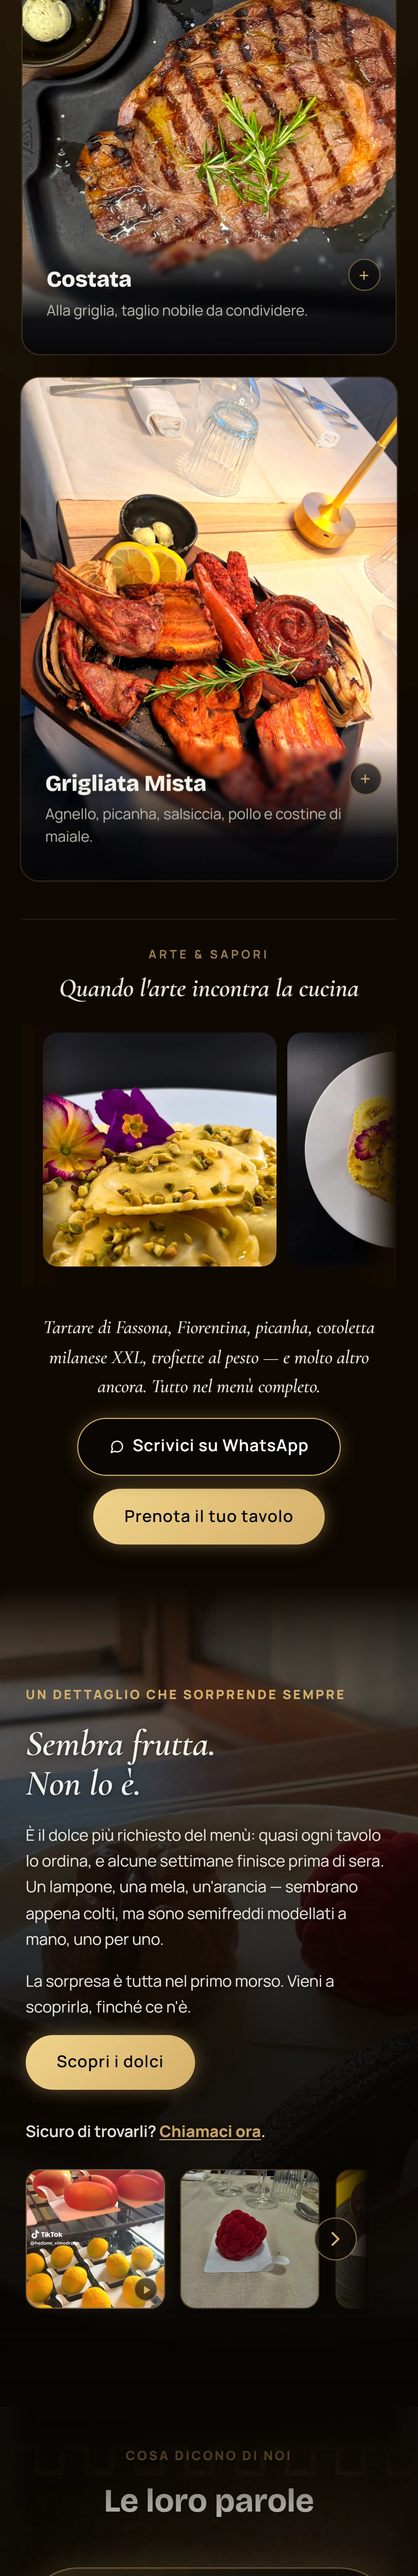
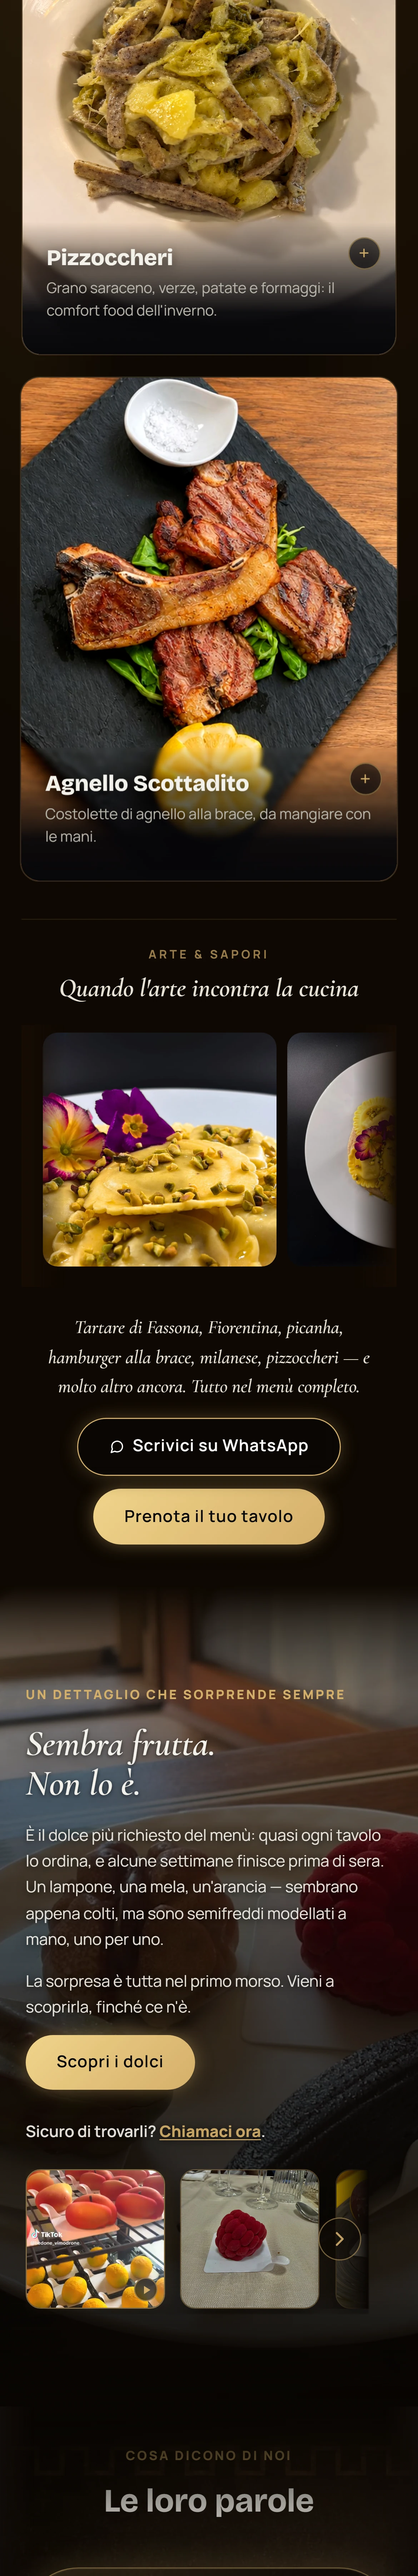
feat[LAVORI]: bollino «Cliente · online» su Hedone, MARO e Home Unity; catture nuove del sito di Hedone

diff --git a/home-corona/hq-meta.js b/home-corona/hq-meta.js
@@ -1,1 +1,1 @@
-window.HQ_META = {"hedone":{"pc":{"cssW":1440,"cssH":7867,"dpr":2,"blocchi":[{"file":"hedone-pc-intera-1.webp","w":2880,"h":6000,"kb":1007},{"file":"hedone-pc-intera-2.webp","w":2880,"h":6000,"kb":889},{"file":"hedone-pc-intera-3.webp","w":2880,"h":3734,"kb":347}]},"tel":{"cssW":390,"cssH":11717,"dpr":3,"blocchi":[{"file":"hedone-tel-intera-1.webp","w":1170,"h":7200,"kb":567},{"file":"hedone-tel-intera-2.webp","w":1170,"h":7200,"kb":736},{"file":"hedone-tel-intera-3.webp","w":1170,"h":7200,"kb":711},{"file":"hedone-tel-intera-4.webp","w":1170,"h":7200,"kb":349},{"file":"hedone-tel-intera-5.webp","w":1170,"h":6351,"kb":178}]}},"ossidiana":{"pc":{"cssW":1440,"cssH":6148,"dpr":2,"blocchi":[{"file":"ossidiana-pc-intera-1.webp","w":2880,"h":6000,"kb":861},{"file":"ossidiana-pc-intera-2.webp","w":2880,"h":6000,"kb":671},{"file":"ossidiana-pc-intera-3.webp","w":2880,"h":296,"kb":16}]},"tel":{"cssW":390,"cssH":5863,"dpr":3,"blocchi":[{"file":"ossidiana-tel-intera-1.webp","w":1170,"h":7200,"kb":487},{"file":"ossidiana-tel-intera-2.webp","w":1170,"h":7200,"kb":466},{"file":"ossidiana-tel-intera-3.webp","w":1170,"h":3189,"kb":109}]}},"lumea":{"pc":{"cssW":1440,"cssH":9267,"dpr":2,"blocchi":[{"file":"lumea-pc-intera-1.webp","w":2880,"h":6000,"kb":814},{"file":"lumea-pc-intera-2.webp","w":2880,"h":6000,"kb":588},{"file":"lumea-pc-intera-3.webp","w":2880,"h":6000,"kb":453},{"file":"lumea-pc-intera-4.webp","w":2880,"h":534,"kb":64}]},"tel":{"cssW":390,"cssH":16372,"dpr":3,"blocchi":[{"file":"lumea-tel-intera-1.webp","w":1170,"h":7200,"kb":376},{"file":"lumea-tel-intera-2.webp","w":1170,"h":7200,"kb":517},{"file":"lumea-tel-intera-3.webp","w":1170,"h":7200,"kb":367},{"file":"lumea-tel-intera-4.webp","w":1170,"h":7200,"kb":249},{"file":"lumea-tel-intera-5.webp","w":1170,"h":7200,"kb":299},{"file":"lumea-tel-intera-6.webp","w":1170,"h":7200,"kb":278},{"file":"lumea-tel-intera-7.webp","w":1170,"h":5916,"kb":206}]}},"michelangelo":{"pc":{"cssW":1440,"cssH":6072,"dpr":2,"blocchi":[{"file":"michelangelo-pc-intera-1.webp","w":2880,"h":6000,"kb":855},{"file":"michelangelo-pc-intera-2.webp","w":2880,"h":6000,"kb":625},{"file":"michelangelo-pc-intera-3.webp","w":2880,"h":144,"kb":25}]},"tel":{"cssW":390,"cssH":7423,"dpr":3,"blocchi":[{"file":"michelangelo-tel-intera-1.webp","w":1170,"h":7200,"kb":514},{"file":"michelangelo-tel-intera-2.webp","w":1170,"h":7200,"kb":499},{"file":"michelangelo-tel-intera-3.webp","w":1170,"h":7200,"kb":299},{"file":"michelangelo-tel-intera-4.webp","w":1170,"h":669,"kb":66}]}},"centorespiri":{"pc":{"cssW":1440,"cssH":5791,"dpr":2,"blocchi":[{"file":"centorespiri-pc-intera-1.webp","w":2880,"h":6000,"kb":706},{"file":"centorespiri-pc-intera-2.webp","w":2880,"h":5582,"kb":386}]},"tel":{"cssW":390,"cssH":8140,"dpr":3,"blocchi":[{"file":"centorespiri-tel-intera-1.webp","w":1170,"h":7200,"kb":432},{"file":"centorespiri-tel-intera-2.webp","w":1170,"h":7200,"kb":298},{"file":"centorespiri-tel-intera-3.webp","w":1170,"h":7200,"kb":256},{"file":"centorespiri-tel-intera-4.webp","w":1170,"h":2820,"kb":127}]}},"carico":{"pc":{"cssW":1440,"cssH":6825,"dpr":2,"blocchi":[{"file":"carico-pc-intera-1.webp","w":2880,"h":6000,"kb":544},{"file":"carico-pc-intera-2.webp","w":2880,"h":6000,"kb":507},{"file":"carico-pc-intera-3.webp","w":2880,"h":1650,"kb":84}]},"tel":{"cssW":390,"cssH":8607,"dpr":3,"blocchi":[{"file":"carico-tel-intera-1.webp","w":1170,"h":7200,"kb":344},{"file":"carico-tel-intera-2.webp","w":1170,"h":7200,"kb":284},{"file":"carico-tel-intera-3.webp","w":1170,"h":7200,"kb":355},{"file":"carico-tel-intera-4.webp","w":1170,"h":4221,"kb":196}]}},"homeunity-sito":{"pc":{"cssW":1440,"cssH":5807,"dpr":2,"blocchi":[{"file":"homeunity-sito-pc-intera-1.webp","w":2880,"h":6000,"kb":1330},{"file":"homeunity-sito-pc-intera-2.webp","w":2880,"h":5614,"kb":955}]},"tel":{"cssW":390,"cssH":8685,"dpr":3,"blocchi":[{"file":"homeunity-sito-tel-intera-1.webp","w":1170,"h":7200,"kb":493},{"file":"homeunity-sito-tel-intera-2.webp","w":1170,"h":7200,"kb":751},{"file":"homeunity-sito-tel-intera-3.webp","w":1170,"h":7200,"kb":551},{"file":"homeunity-sito-tel-intera-4.webp","w":1170,"h":4455,"kb":236}]}},"maro":{"pc":{"cssW":1440,"cssH":3998,"dpr":2,"blocchi":[{"file":"maro-pc-intera-1.webp","w":2880,"h":6000,"kb":802},{"file":"maro-pc-intera-2.webp","w":2880,"h":1996,"kb":316}]},"tel":{"cssW":390,"cssH":3829,"dpr":3,"blocchi":[{"file":"maro-tel-intera-1.webp","w":1170,"h":7200,"kb":655},{"file":"maro-tel-intera-2.webp","w":1170,"h":4287,"kb":259}]}}};
+window.HQ_META = {"hedone":{"pc":{"cssW":1440,"cssH":7769,"dpr":2,"blocchi":[{"file":"hedone-pc-intera-1.webp","w":2880,"h":6000,"kb":1034},{"file":"hedone-pc-intera-2.webp","w":2880,"h":6000,"kb":838},{"file":"hedone-pc-intera-3.webp","w":2880,"h":3538,"kb":347}]},"tel":{"cssW":390,"cssH":11637,"dpr":3,"blocchi":[{"file":"hedone-tel-intera-1.webp","w":1170,"h":7200,"kb":566},{"file":"hedone-tel-intera-2.webp","w":1170,"h":7200,"kb":790},{"file":"hedone-tel-intera-3.webp","w":1170,"h":7200,"kb":650},{"file":"hedone-tel-intera-4.webp","w":1170,"h":7200,"kb":349},{"file":"hedone-tel-intera-5.webp","w":1170,"h":6111,"kb":178}]}},"ossidiana":{"pc":{"cssW":1440,"cssH":6148,"dpr":2,"blocchi":[{"file":"ossidiana-pc-intera-1.webp","w":2880,"h":6000,"kb":861},{"file":"ossidiana-pc-intera-2.webp","w":2880,"h":6000,"kb":671},{"file":"ossidiana-pc-intera-3.webp","w":2880,"h":296,"kb":16}]},"tel":{"cssW":390,"cssH":5863,"dpr":3,"blocchi":[{"file":"ossidiana-tel-intera-1.webp","w":1170,"h":7200,"kb":487},{"file":"ossidiana-tel-intera-2.webp","w":1170,"h":7200,"kb":466},{"file":"ossidiana-tel-intera-3.webp","w":1170,"h":3189,"kb":109}]}},"lumea":{"pc":{"cssW":1440,"cssH":9267,"dpr":2,"blocchi":[{"file":"lumea-pc-intera-1.webp","w":2880,"h":6000,"kb":814},{"file":"lumea-pc-intera-2.webp","w":2880,"h":6000,"kb":588},{"file":"lumea-pc-intera-3.webp","w":2880,"h":6000,"kb":453},{"file":"lumea-pc-intera-4.webp","w":2880,"h":534,"kb":64}]},"tel":{"cssW":390,"cssH":16372,"dpr":3,"blocchi":[{"file":"lumea-tel-intera-1.webp","w":1170,"h":7200,"kb":376},{"file":"lumea-tel-intera-2.webp","w":1170,"h":7200,"kb":517},{"file":"lumea-tel-intera-3.webp","w":1170,"h":7200,"kb":367},{"file":"lumea-tel-intera-4.webp","w":1170,"h":7200,"kb":249},{"file":"lumea-tel-intera-5.webp","w":1170,"h":7200,"kb":299},{"file":"lumea-tel-intera-6.webp","w":1170,"h":7200,"kb":278},{"file":"lumea-tel-intera-7.webp","w":1170,"h":5916,"kb":206}]}},"michelangelo":{"pc":{"cssW":1440,"cssH":6072,"dpr":2,"blocchi":[{"file":"michelangelo-pc-intera-1.webp","w":2880,"h":6000,"kb":855},{"file":"michelangelo-pc-intera-2.webp","w":2880,"h":6000,"kb":625},{"file":"michelangelo-pc-intera-3.webp","w":2880,"h":144,"kb":25}]},"tel":{"cssW":390,"cssH":7423,"dpr":3,"blocchi":[{"file":"michelangelo-tel-intera-1.webp","w":1170,"h":7200,"kb":514},{"file":"michelangelo-tel-intera-2.webp","w":1170,"h":7200,"kb":499},{"file":"michelangelo-tel-intera-3.webp","w":1170,"h":7200,"kb":299},{"file":"michelangelo-tel-intera-4.webp","w":1170,"h":669,"kb":66}]}},"centorespiri":{"pc":{"cssW":1440,"cssH":5791,"dpr":2,"blocchi":[{"file":"centorespiri-pc-intera-1.webp","w":2880,"h":6000,"kb":706},{"file":"centorespiri-pc-intera-2.webp","w":2880,"h":5582,"kb":386}]},"tel":{"cssW":390,"cssH":8140,"dpr":3,"blocchi":[{"file":"centorespiri-tel-intera-1.webp","w":1170,"h":7200,"kb":432},{"file":"centorespiri-tel-intera-2.webp","w":1170,"h":7200,"kb":298},{"file":"centorespiri-tel-intera-3.webp","w":1170,"h":7200,"kb":256},{"file":"centorespiri-tel-intera-4.webp","w":1170,"h":2820,"kb":127}]}},"carico":{"pc":{"cssW":1440,"cssH":6825,"dpr":2,"blocchi":[{"file":"carico-pc-intera-1.webp","w":2880,"h":6000,"kb":544},{"file":"carico-pc-intera-2.webp","w":2880,"h":6000,"kb":507},{"file":"carico-pc-intera-3.webp","w":2880,"h":1650,"kb":84}]},"tel":{"cssW":390,"cssH":8607,"dpr":3,"blocchi":[{"file":"carico-tel-intera-1.webp","w":1170,"h":7200,"kb":344},{"file":"carico-tel-intera-2.webp","w":1170,"h":7200,"kb":284},{"file":"carico-tel-intera-3.webp","w":1170,"h":7200,"kb":355},{"file":"carico-tel-intera-4.webp","w":1170,"h":4221,"kb":196}]}},"homeunity-sito":{"pc":{"cssW":1440,"cssH":5807,"dpr":2,"blocchi":[{"file":"homeunity-sito-pc-intera-1.webp","w":2880,"h":6000,"kb":1330},{"file":"homeunity-sito-pc-intera-2.webp","w":2880,"h":5614,"kb":955}]},"tel":{"cssW":390,"cssH":8685,"dpr":3,"blocchi":[{"file":"homeunity-sito-tel-intera-1.webp","w":1170,"h":7200,"kb":493},{"file":"homeunity-sito-tel-intera-2.webp","w":1170,"h":7200,"kb":751},{"file":"homeunity-sito-tel-intera-3.webp","w":1170,"h":7200,"kb":551},{"file":"homeunity-sito-tel-intera-4.webp","w":1170,"h":4455,"kb":236}]}},"maro":{"pc":{"cssW":1440,"cssH":3998,"dpr":2,"blocchi":[{"file":"maro-pc-intera-1.webp","w":2880,"h":6000,"kb":802},{"file":"maro-pc-intera-2.webp","w":2880,"h":1996,"kb":316}]},"tel":{"cssW":390,"cssH":3829,"dpr":3,"blocchi":[{"file":"maro-tel-intera-1.webp","w":1170,"h":7200,"kb":655},{"file":"maro-tel-intera-2.webp","w":1170,"h":4287,"kb":259}]}}};

diff --git a/home-corona/corona.js b/home-corona/corona.js
@@ -63,11 +63,11 @@
 
   // Le schede della slide: stessi testi del sito ufficiale
   const LAVORI = [
-    { nome: 'Hedoné', cat: 'Sito web / Ristorazione · Vimodrone', stato: 'Cliente', img: 'hq/hedone-pc', riga: 'Ristorante e lounge bar sul Naviglio Martesana: il menù con gli ingredienti a un tocco e la prenotazione già aperta.', tag: ['Menù a un tocco', 'Prenotazione', 'Online da settembre 2026'], sito: 'ristorante' },
-    { nome: 'MARO', cat: 'Sito web / Abbigliamento sportivo · Milano', stato: 'Cliente', img: 'hq/maro-pc', riga: 'Il brand di abbigliamento sportivo ed elegante nato a Milano: il primo capo in vetrina e la prenotazione su WhatsApp.', tag: ['Online su shopmaro.it', 'Primo capo in vetrina', 'Prenota su WhatsApp'], sito: 'maro' },
+    { nome: 'Hedoné', cat: 'Sito web / Ristorazione · Vimodrone', stato: 'Cliente · online', img: 'hq/hedone-pc', riga: 'Ristorante e lounge bar sul Naviglio Martesana: il menù con gli ingredienti a un tocco e la prenotazione già aperta.', tag: ['Menù a un tocco', 'Prenotazione', 'Online da settembre 2026'], sito: 'ristorante' },
+    { nome: 'MARO', cat: 'Sito web / Abbigliamento sportivo · Milano', stato: 'Cliente · online', img: 'hq/maro-pc', riga: 'Il brand di abbigliamento sportivo ed elegante nato a Milano: il primo capo in vetrina e la prenotazione su WhatsApp.', tag: ['Online su shopmaro.it', 'Primo capo in vetrina', 'Prenota su WhatsApp'], sito: 'maro' },
     { nome: 'Ossidiana', cat: 'Sito vetrina / Moda e lusso · Milano', stato: 'Dimostrativo', img: 'hq/ossidiana-pc', riga: 'Una sartoria di alta moda inventata per mostrare un sito di lusso: foto grandi e poche parole.', tag: ['Foto a tutta pagina', 'Tre pagine', 'Computer e telefono'], sito: 'moda' },
-    { nome: 'Home Unity', cat: 'Sito web / Immobiliare · Milano e Firenze', stato: 'Online', img: 'hq/homeunity-sito-pc', w: 1920, h: 1200, riga: 'Il sito di Home Unity: property management e operazioni immobiliari a Milano e Firenze.', tag: ['Online su homeunity.it', 'Metodo in quattro passi'], sito: 'immobiliare' },
-    { nome: 'Home Unity', cat: 'Gestionale / Affitti brevi', stato: 'Area riservata', img: 'homeunity-pc', riga: 'I numeri di 108 appartamenti tra Milano, Firenze e lago di Garda in una sola schermata.', tag: ['Dati che arrivano da soli', 'Confronto con l’anno prima'], sito: 'gestionale' },
+    { nome: 'Home Unity', cat: 'Sito web / Immobiliare · Milano e Firenze', stato: 'Cliente · online', img: 'hq/homeunity-sito-pc', w: 1920, h: 1200, riga: 'Il sito di Home Unity: property management e operazioni immobiliari a Milano e Firenze.', tag: ['Online su homeunity.it', 'Metodo in quattro passi'], sito: 'immobiliare' },
+    { nome: 'Home Unity', cat: 'Gestionale / Affitti brevi', stato: 'Cliente · area riservata', img: 'homeunity-pc', riga: 'I numeri di 108 appartamenti tra Milano, Firenze e lago di Garda in una sola schermata.', tag: ['Dati che arrivano da soli', 'Confronto con l’anno prima'], sito: 'gestionale' },
     { nome: 'Studio Lumea', cat: 'Sito web / Studio dentistico · Milano', stato: 'Dimostrativo', img: 'hq/lumea-pc', riga: 'Dodici pagine pensate per chi ha paura del dentista: una per trattamento, costi chiari e richiesta di appuntamento.', tag: ['Dodici pagine', 'Costi chiari', 'Appuntamento online'], sito: 'studio' },
     { nome: 'Michelangelo Beauty', cat: 'Negozio online / Cosmetica · Toscana', stato: 'Dimostrativo', img: 'hq/michelangelo-pc', riga: 'Un negozio di cosmetica con il carattere di una bottega: carrello, confezione regalo e pagamento in quattro passaggi.', tag: ['Carrello', 'Confezione regalo', 'Questionario prodotti'], sito: 'shop' },
     { nome: 'Cento Respiri', cat: 'Sito + app / Pilates · Torino', stato: 'Dimostrativo', img: 'hq/centorespiri-pc', riga: 'Sito, area clienti e app da installare con un solo account: lista d’attesa, carnet e buoni regalo.', tag: ['Un solo account', 'Lista d’attesa', 'QR all’ingresso'], sito: 'fitness' },
@@ -475,7 +475,7 @@
   (() => {
     const vista = $('[data-car-vista]'), traccia = $('[data-car-traccia]'), conta = $('[data-lav-conta]');
     traccia.innerHTML = LAVORI.map((w, i) =>
-      `<li class="car-scheda" data-i="${i}"><button type="button" class="car-bottone" aria-label="${w.nome}, ${w.cat.replace(' / ', ', ')}: apri il progetto"><span class="car-cornice"><img src="${w.img.startsWith('hq/') ? '../assets/img/' : IMGL}${w.img}.webp" width="${w.w || 1920}" height="${w.h || 1200}" alt="${w.nome}, la pagina d’apertura sul computer" draggable="false" loading="lazy" decoding="async"><span class="car-stato">${w.stato}</span><span class="car-apri" aria-hidden="true">Apri il progetto <i>↗</i></span></span></button><div class="car-info"><div class="car-riga"><p class="car-nome">${w.nome}</p><p class="car-cat">${w.cat.replace(' / ', ' <span aria-hidden="true">/</span> ')}</p></div><p class="car-desc">${w.riga}</p><ul class="car-tag">${w.tag.map(t => `<li>${t}</li>`).join('')}</ul></div></li>`).join('');
+      `<li class="car-scheda" data-i="${i}"><button type="button" class="car-bottone" aria-label="${w.nome}, ${w.cat.replace(' / ', ', ')}: apri il progetto"><span class="car-cornice"><img src="${w.img.startsWith('hq/') ? '../assets/img/' : IMGL}${w.img}.webp" width="${w.w || 1920}" height="${w.h || 1200}" alt="${w.nome}, la pagina d’apertura sul computer" draggable="false" loading="lazy" decoding="async"><span class="car-stato${/^Cliente/.test(w.stato) ? ' car-stato-on' : ''}">${/^Cliente/.test(w.stato) ? '<i aria-hidden="true"></i>' : ''}${w.stato}</span><span class="car-apri" aria-hidden="true">Apri il progetto <i>↗</i></span></span></button><div class="car-info"><div class="car-riga"><p class="car-nome">${w.nome}</p><p class="car-cat">${w.cat.replace(' / ', ' <span aria-hidden="true">/</span> ')}</p></div><p class="car-desc">${w.riga}</p><ul class="car-tag">${w.tag.map(t => `<li>${t}</li>`).join('')}</ul></div></li>`).join('');
     const schede = $$('.car-scheda', traccia);
     let ia = document.documentElement.dataset.home === '01' ? Math.floor(LAVORI.length / 2) : 0, base = 0, trascinando = null, mossa = false, tRuota = 0;
     function posiziona(extra = 0) {

diff --git a/home-corona/index.html b/home-corona/index.html
@@ -20,7 +20,7 @@
 <meta name="theme-color" content="#FFFFFF">
 <link rel="icon" href="../assets/img/icona-32.png" sizes="32x32">
 <link rel="apple-touch-icon" href="../assets/img/icona-180.png">
-<link rel="stylesheet" href="corona.css?v=355">
+<link rel="stylesheet" href="corona.css?v=360">
 <link rel="stylesheet" href="menu-barra.css?v=453">
 <style id="ap01-css">
 @font-face { font-family: "Manrope"; src: url(../assets/font/manrope.woff2) format("woff2"); font-weight: 200 800; font-display: swap; }
@@ -381,7 +381,7 @@ html[data-home="01"] .lavori .car-comandi::before, html[data-home="01"] .lavori 
   <div class="lav-testa">
     <span class="lav-occhiello">Lavori selezionati</span>
     <h2 id="t-lavori">Il lavoro prende <em>forma.</em></h2>
-    <p class="lav-sotto">Siti, app e strumenti per attività diverse. I lavori «Dimostrativo» sono progetti nostri, fatti per mostrare cosa sappiamo costruire; gli altri sono online per clienti veri.</p>
+    <p class="lav-sotto">Siti, app e strumenti per attività diverse. <b>Hedoné, MARO e Home Unity sono siti di clienti veri, già online</b>: li riconosci dal bollino «Cliente · online» e puoi visitarli. I lavori «Dimostrativo» sono progetti nostri, fatti per mostrare cosa sappiamo costruire.</p>
   </div>
   <div class="car-vista" data-car-vista tabindex="0" aria-label="Progetti: usa le frecce per scorrere">
     <ul class="car-traccia" data-car-traccia></ul>
@@ -627,7 +627,7 @@ html[data-home="01"] .lavori .car-comandi::before, html[data-home="01"] .lavori 
 })();
 </script>
 <script src="hq-meta.js"></script>
-<script src="corona.js?v=358" defer></script>
+<script src="corona.js?v=365" defer></script>
 <script src="nav-colore.js?v=392" defer></script>
 </body>
 </html>

diff --git a/home-corona/corona.css b/home-corona/corona.css
@@ -1349,3 +1349,9 @@ html[data-tema="bn"] .srv-carta .srv-chip u, html[data-tema="bn"] .sv-risp { bac
 @keyframes gr-vela { from { opacity: 0; } to { opacity: 1; } }
 @keyframes gr-carta { from { opacity: 0; transform: translateY(16px) scale(.97); } to { opacity: 1; transform: none; } }
 @media (prefers-reduced-motion: reduce) { .contatto-grazie, .contatto-grazie .gr-carta { animation: none; } }
+
+/* Lavori di clienti già online: bollino con puntino acceso */
+.car-stato-on { display: inline-flex; align-items: center; background: rgba(10, 10, 10, .84); box-shadow: inset 0 0 0 1px rgba(110, 231, 160, .6); }
+.car-stato-on i { flex: none; width: 8px; height: 8px; margin-right: 8px; border-radius: 50%; background: #4ade80; box-shadow: 0 0 0 0 rgba(74, 222, 128, .6); animation: car-on 2.2s ease-out infinite; }
+@keyframes car-on { 0% { box-shadow: 0 0 0 0 rgba(74, 222, 128, .55); } 70%, 100% { box-shadow: 0 0 0 9px rgba(74, 222, 128, 0); } }
+@media (prefers-reduced-motion: reduce) { .car-stato-on i { animation: none; } }
